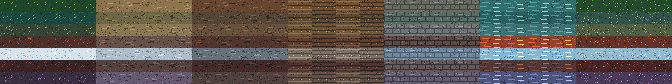
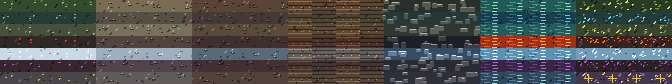
Align terrain materials with biome atlases

diff --git a/world/arena.js b/world/arena.js
@@ -693,6 +693,7 @@ function buildMossrootMarsh(context, rng) {
   const flags = context.worldFlags || {};
   const tiles = createTiles(rng);
   stampRect(tiles, 0, 0, COLS, ROWS, "grass", 0);
+  clearOverlayRect(tiles, 0, 0, COLS, ROWS);
   stampEllipse(tiles, 24, 25, 14, 9, "water", 0);
   stampEllipse(tiles, 52, 34, 12, 9, "water", 1);
   stampEllipse(tiles, 78, 20, 11, 8, "water", 0);
@@ -816,6 +817,7 @@ function buildEmberpineGrove(context, rng) {
   const flags = context.worldFlags || {};
   const tiles = createTiles(rng);
   stampRect(tiles, 0, 0, COLS, ROWS, "emberGrass", 0);
+  clearOverlayRect(tiles, 0, 0, COLS, ROWS);
   stampEllipse(tiles, 50, 30, 14, 10, "ash", 0);
   paintPath(tiles, 50, 56, 50, 30, 2, "ashPath", 0);
   paintPath(tiles, 50, 30, 92, 30, 2, "ashPath", 1);
@@ -916,6 +918,7 @@ function buildFrostveilTundra(context, rng) {
   const flags = context.worldFlags || {};
   const tiles = createTiles(rng);
   stampRect(tiles, 0, 0, COLS, ROWS, "snow", 0);
+  clearOverlayRect(tiles, 0, 0, COLS, ROWS);
   stampEllipse(tiles, 36, 28, 12, 8, "ice", 0);
   stampEllipse(tiles, 66, 20, 10, 7, "ice", 1);
   paintPath(tiles, 8, 30, 42, 30, 2, "snowPath", 0);
@@ -1000,6 +1003,7 @@ function buildHollowheartRuins(context, rng) {
   const flags = context.worldFlags || {};
   const tiles = createTiles(rng);
   stampRect(tiles, 0, 0, COLS, ROWS, "blight", 0);
+  clearOverlayRect(tiles, 0, 0, COLS, ROWS);
   stampEllipse(tiles, 52, 30, 18, 13, "ruinStone", 0);
   stampEllipse(tiles, 52, 30, 12, 8, "ash", 1);
   paintPath(tiles, 50, 57, 52, 38, 2, "ruinStone", 1);
@@ -1174,6 +1178,7 @@ function buildMossyRuins(context, rng) {
 function buildSunkenReliquary(context, rng) {
   const tiles = createTiles(rng);
   stampRect(tiles, 0, 0, COLS, ROWS, "ruinStone", 0);
+  clearOverlayRect(tiles, 0, 0, COLS, ROWS);
   stampEllipse(tiles, 52, 30, 22, 14, "path", 0);
   stampEllipse(tiles, 52, 30, 12, 8, "water", 0);
   stampRect(tiles, 42, 10, 20, 12, "ruinStone", 1);
@@ -1252,6 +1257,7 @@ function buildChapelOfTides(context, rng) {
   const flags = context.worldFlags || {};
   const tiles = createTiles(rng);
   stampRect(tiles, 0, 0, COLS, ROWS, "ruinStone", 0);
+  clearOverlayRect(tiles, 0, 0, COLS, ROWS);
   stampEllipse(tiles, 52, 30, 20, 14, "water", 0);
   stampEllipse(tiles, 52, 30, 10, 7, "path", 0);
   stampRect(tiles, 22, 18, 60, 24, "path", 1);
@@ -1339,6 +1345,7 @@ function buildBlightedWoods(context, rng) {
   const flags = context.worldFlags || {};
   const tiles = createTiles(rng);
   stampRect(tiles, 0, 0, COLS, ROWS, "blight", 0);
+  clearOverlayRect(tiles, 0, 0, COLS, ROWS);
   stampEllipse(tiles, 52, 30, 16, 11, "ash", 0);
   paintPath(tiles, 8, 30, 52, 30, 2, "ashPath", 0);
   paintPath(tiles, 52, 30, 92, 30, 2, "ashPath", 1);
@@ -1435,6 +1442,7 @@ function buildAncientHeart(context, rng) {
   const flags = context.worldFlags || {};
   const tiles = createTiles(rng);
   stampRect(tiles, 0, 0, COLS, ROWS, "ruinStone", 0);
+  clearOverlayRect(tiles, 0, 0, COLS, ROWS);
   stampEllipse(tiles, 52, 30, 18, 12, "path", 0);
   stampEllipse(tiles, 52, 30, 8, 6, "water", 0);
   paintPath(tiles, 52, 56, 52, 30, 2, "path", 1);
@@ -1533,6 +1541,7 @@ function buildStarfallSanctum(context, rng) {
   const flags = context.worldFlags || {};
   const tiles = createTiles(rng);
   stampRect(tiles, 0, 0, COLS, ROWS, "ruinStone", 0);
+  clearOverlayRect(tiles, 0, 0, COLS, ROWS);
   stampEllipse(tiles, 52, 30, 20, 13, "path", 0);
   stampEllipse(tiles, 52, 30, 9, 6, "ice", 0);
   paintPath(tiles, 52, 56, 52, 30, 2, "path", 1);

diff --git a/rendering/terrainAssets.js b/rendering/terrainAssets.js
@@ -48,12 +48,14 @@ function drawAtlasFloorTexture(ctx, x, y, halfW, halfH, tile, sceneStyle, tx, ty
           tile.ground === "ashPath" ||
           tile.ground === "snowPath" ||
           tile.ground === "ruinStone"
-        ? 0.5
+        ? 0.48
         : tile.ground === "soil" || tile.ground === "planks"
-          ? 0.48
-          : tile.ground === "ember" || tile.ground === "ash" || tile.ground === "blight"
-            ? 0.52
-            : 0.4;
+          ? 0.44
+          : tile.ground === "blight"
+            ? 0.38
+            : tile.ground === "ember" || tile.ground === "ash"
+              ? 0.48
+            : 0.36;
 
   ctx.save();
   clipDiamond(ctx, x, y, halfW, halfH);
@@ -149,7 +151,7 @@ function getTerrainPalette(ground, variant, theme, sceneStyle) {
   }
 
   if (ground === "blight") {
-    return paletteFrom(["#3b2425", "#47292a", "#50302f"], variant, "#75413d", "#1d1113", "#a25a4d");
+    return paletteFrom(["#30252c", "#382831", "#2a2228"], variant, "#6e4768", "#17131a", "#a74eb4");
   }
 
   const naturalBases = [
@@ -436,8 +438,8 @@ function drawTerrainOverlay(ctx, x, y, overlay, palette, seed) {
   const offsetY = ((seed >> 3) % 3) - 1;
 
   if (overlay === "clover") {
-    pixel(ctx, x + offsetX - 1, y + offsetY - 1, 2, 1, "#75b96a", 0.84);
-    pixel(ctx, x + offsetX + 1, y + offsetY, 2, 1, "#9bd185", 0.9);
+    pixel(ctx, x + offsetX - 2, y + offsetY - 1, 3, 2, "#638f4f", 0.84);
+    pixel(ctx, x + offsetX + 1, y + offsetY - 1, 3, 2, "#9bd185", 0.9);
     pixel(ctx, x + offsetX, y + offsetY + 1, 1, 1, palette.dark, 0.6);
     return;
   }
@@ -449,16 +451,18 @@ function drawTerrainOverlay(ctx, x, y, overlay, palette, seed) {
         : overlay === "flowersCool"
           ? ["#8edff2", "#d8efff"]
           : ["#e8f8ff", "#a6d9f4"];
-    pixel(ctx, x + offsetX - 2, y + offsetY, 1, 1, colors[0], 0.95);
-    pixel(ctx, x + offsetX + 2, y + offsetY - 1, 1, 1, colors[1], 0.95);
-    pixel(ctx, x + offsetX, y + offsetY + 1, 1, 1, "#5d8a55", 0.72);
+    pixel(ctx, x + offsetX - 3, y + offsetY - 1, 3, 2, colors[0], 0.95);
+    pixel(ctx, x + offsetX + 1, y + offsetY - 2, 3, 2, colors[1], 0.95);
+    const stemColor = overlay === "frostFlowers" ? "#7897aa" : palette.accent;
+    pixel(ctx, x + offsetX - 1, y + offsetY + 1, 3, 1, stemColor, 0.68);
     return;
   }
 
   if (overlay === "reeds") {
-    pixel(ctx, x + offsetX - 1, y + offsetY - 4, 1, 5, "#78a66d", 0.92);
-    pixel(ctx, x + offsetX + 1, y + offsetY - 3, 1, 4, "#a1c58b", 0.9);
-    pixel(ctx, x + offsetX - 2, y + offsetY - 4, 1, 1, "#b49462", 0.88);
+    pixel(ctx, x + offsetX - 2, y + offsetY - 5, 1, 6, "#587b55", 0.92);
+    pixel(ctx, x + offsetX, y + offsetY - 4, 1, 5, "#8eb17d", 0.9);
+    pixel(ctx, x + offsetX + 2, y + offsetY - 6, 1, 7, "#6e9566", 0.9);
+    pixel(ctx, x + offsetX - 3, y + offsetY - 5, 2, 1, "#a98264", 0.88);
   }
 }
 
